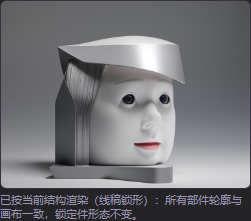
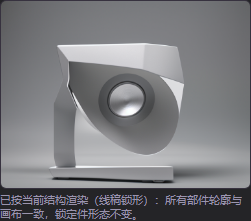
ComfyUI：毕设安装改为完全自包含（基础模型复制进来），与春序彼此独立
- 复制 Shared 的 checkpoints（CyberRealistic/v1-5/LTX-Video）、controlnet(scribble)、
  text_encoders(t5xxl)、configs 到毕设安装 models，加上 Qwen 三件套共 31.2 GB
- 删除毕设安装的 extra_model_paths.yaml，不再引用共享目录
- 春序安装与 ComfyUI-Shared（19G models / 2.5G output）未改动，可独立使用
- README/接手指南同步；两个 .part 经 safetensors 头部核验为未完成下载（7.1G，在回收站）

diff --git a/README.md b/README.md
@@ -29,7 +29,7 @@ node --test *.cjs
 
 ## 渲染后端
 
-- **本机 ComfyUI**（推荐）：SD1.5 / CyberRealistic + Scribble/Lineart/Canny ControlNet 实时渲染；Qwen-Image-2.1 高质量出图（三件套在 `ComfyUI-Installs\毕设\ComfyUI\models`，基础模型只读引用 `ComfyUI-Shared\models`）
+- **本机 ComfyUI**（推荐）：SD1.5 / CyberRealistic + Scribble/Lineart/Canny ControlNet 实时渲染；Qwen-Image-2.1 高质量出图（全部模型在 `ComfyUI-Installs\毕设\ComfyUI\models`，该安装自包含，与春序安装互不依赖）
 - **Images API 兼容**：OpenAI 官方 / apilio.ai 中转，支持 `image` 与 `image[]` 两种字段格式
 - **RunningHub**：云端工作流
 
